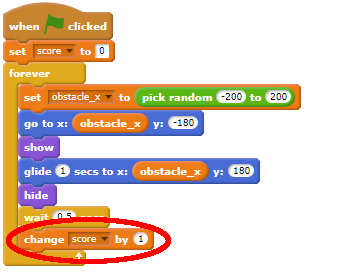
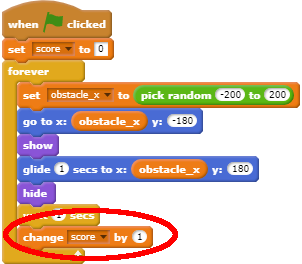
post maker day feedback

diff --git a/en/step_8.md b/en/step_8.md
@@ -4,14 +4,18 @@ Each time the skier sprite makes it past an obstacle, they should earn points.
 
 ![score](images/score.png)
 
-+ `Make a variable`{:class="blockdata"} called `score`{:class="blockdata"} and set it to zero at the start of the game.
++ `Make a variable`{:class="blockdata"} called `score`{:class="blockdata"} 
+
++ Add a script to the obstacle sprite to set `score`{:class="blockdata"} to zero at the start of the game.
 
 [[[generic-scratch-add-variable]]]
 
 ![score code set variable](images/score_code1.png)
 
-+ Change the code so that when the sprite gets past the obstacle, it `changes score by 1`{:class="blockdata"}.
++ Change the code so that when the obstacle gets to the top of the screen, it `changes score by 1`{:class="blockdata"}.
 
 The updated script for the sprite should look like this:
 
 ![score code add 1](images/score_code2.png)
+
++ Play the game, see how many points you can score.

diff --git a/en/step_7.md b/en/step_7.md
@@ -4,11 +4,11 @@ If the skier crashes into an obstacle, it should fall over and the game should e
 
 ![skier crashed](images/skier_crash.png)
 
-+ Change the code for the skier sprite to `wait until it is touching`{:class="blocksensing"} the obstacle, and to then `stop all`{:class="blockcontrol"}.
++ Change the code for the skier sprite to `wait until`{:class="blockcontrol"} it is `touching`{:class="blocksensing"} the obstacle, and to then `stop all`{:class="blockcontrol"}.
 
 ![crash code wait and stop](images/crash_code1.png)
 
-+ When the skier crashes, you should also `switch custume to fallenover`{:class="blocklooks"}.
++ When the skier crashes, you should also `switch costume to fallenover`{:class="blocklooks"}.
 
 The updated code should look like this:
 

diff --git a/en/step_5.md b/en/step_5.md
@@ -32,7 +32,7 @@ Having obstacles to avoid will make your game more challenging, and making them 
 
 Can you make the obstacle's costume change each time it appears? 
 
-If the sprite you have chosen has only have one costume, you could use another sprite or create your own second costume for the one you already have.
+If the sprite you have chosen has only have one costume, you could choose a costume from the library, use another sprite or create your own second costume for the one you already have.
 
 [[[generic-scratch-add-costume]]]
 

diff --git a/en/step_1.md b/en/step_1.md
@@ -21,5 +21,5 @@ This project covers elements from the following strands of the [Raspberry Pi Dig
 
 ### Additional information for educators
 
-If you need to print this project, please use the [printer-friendly version](https://projects.raspberrypi.org/en/projects/scratch-goes-skiing/print){:target="_blank"}.
+If you need to print this project, please use the [printer-friendly version](https://projects.raspberrypi.org/en/projects/scratch-cat-goes-skiing/print){:target="_blank"}.
 

diff --git a/en/step_2.md b/en/step_2.md
@@ -6,7 +6,7 @@
 
 ### Software
 
-+ Scratch 2.0 (either [online](http://rpf.io/scratchon) or [offline](http://rpf.io/scratchoff))
++ Scratch 2.0 (either [online](http://rpf.io/scratchon){:target="_blank"} or [offline](http://rpf.io/scratchoff){:target="_blank"})
 
 ### Additional resources
 

diff --git a/en/step_4.md b/en/step_4.md
@@ -33,3 +33,5 @@ This is what your code should look like:
 --- /hint ---
 
 --- /hints ---
+
++ Test your program
